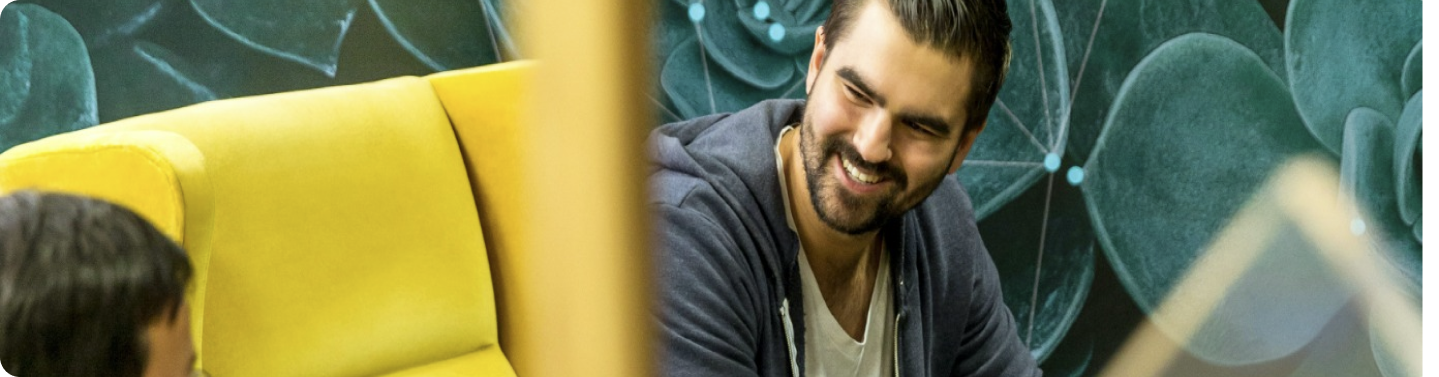
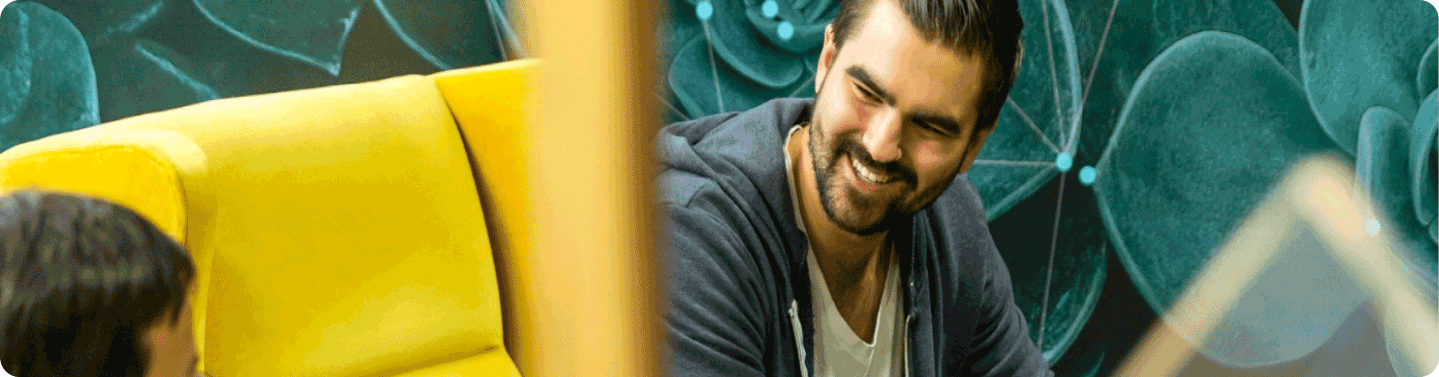
fix left column from FourGoals and fix mentoring picture

diff --git a/src/components/organisms/FourGoals.tsx b/src/components/organisms/FourGoals.tsx
@@ -18,9 +18,19 @@ export function FourGoals({
   events?: boolean;
 }) {
   return (
-    <section className='h-full py-16 space-y-8'>
+    <section className='h-full py-16 space-y-8 flex flex-col'>
+      <div
+        className='image-container'
+        style={{ width: "fixedWidth", height: "fixedHeight" }}
+      >
+        <Image
+          src={picture}
+          alt={`${title} picture`}
+          width={1500}
+          height={500}
+        />
+      </div>
       <Article
-        image={{ src: picture, alt: `${picture} picture` }}
         title={title}
         description={description}
         button={{ display: true, text: "Contactez-nous" }}
